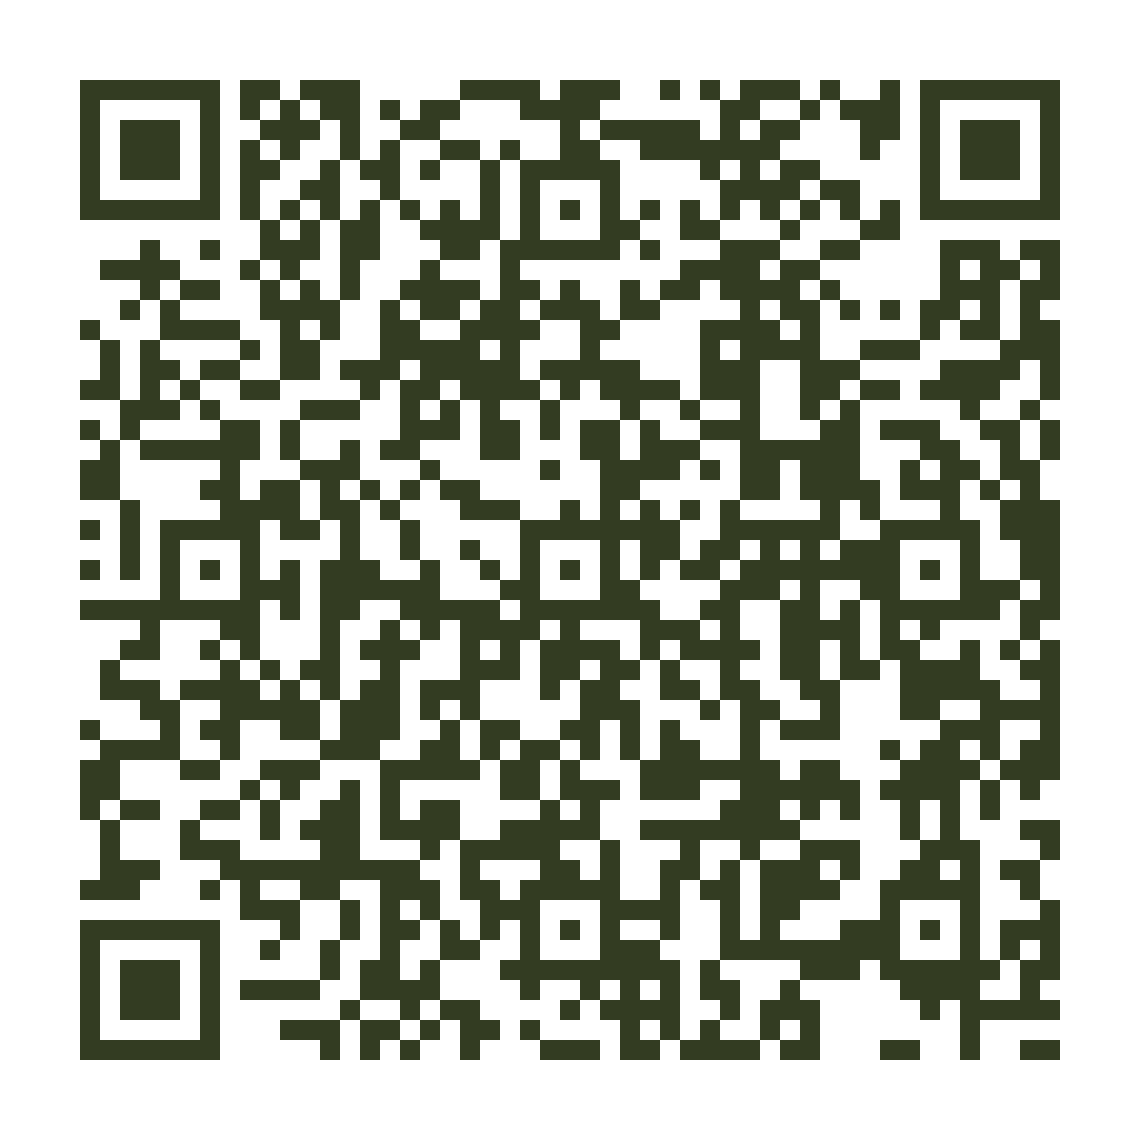
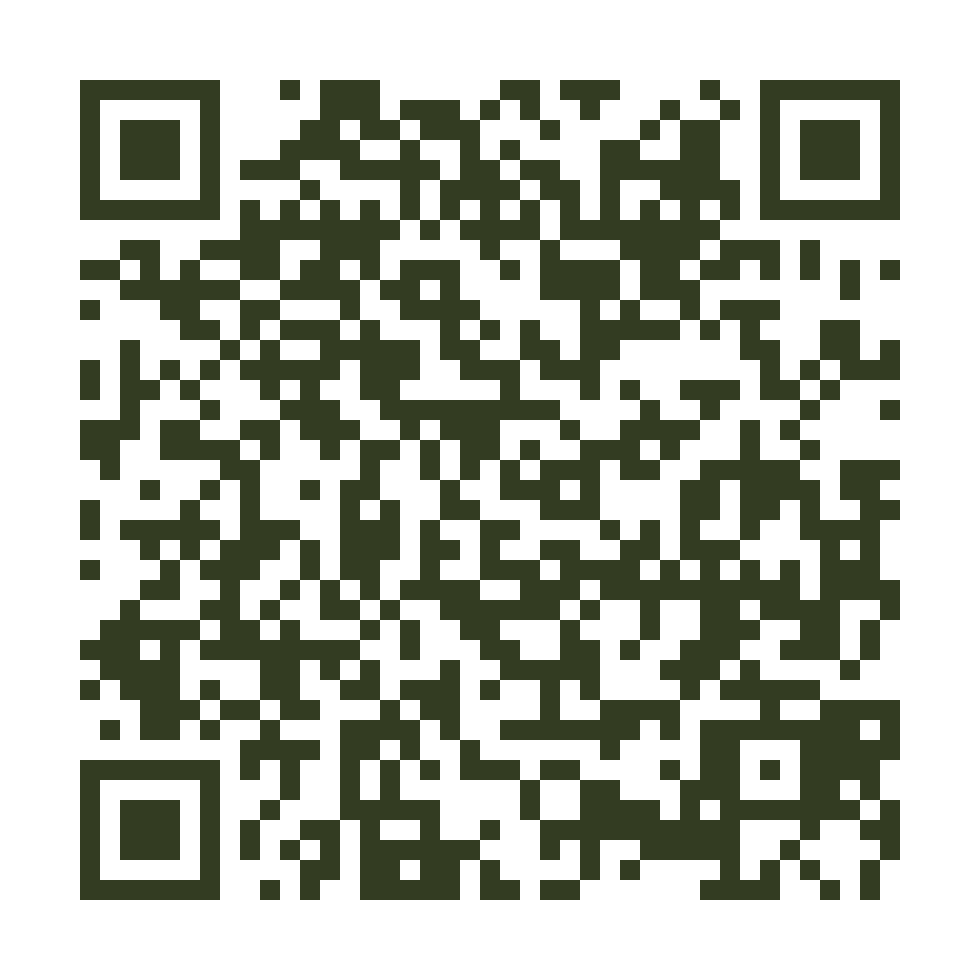
Google yorum linkini guvenilir maps cid linkiyle degistir

diff --git a/index.html b/index.html
@@ -22,7 +22,7 @@
     <p class="tagline">Cocktail Bar</p>
     <div class="hero-links">
       <a href="https://www.instagram.com/thepoint.corlu" target="_blank" rel="noopener" class="pill">Instagram</a>
-      <a href="https://search.google.com/local/writereview?placeid=3169288846046193105" target="_blank" rel="noopener" class="pill pill-gold">Google'da Yorum Yap</a>
+      <a href="https://www.google.com/maps?cid=3169288846046193105" target="_blank" rel="noopener" class="pill pill-gold">Google'da Yorum Yap</a>
     </div>
   </div>
 </header>
@@ -172,7 +172,7 @@
   <div class="footer-links">
     <a href="https://www.instagram.com/thepoint.corlu" target="_blank" rel="noopener">Instagram</a>
     <span>·</span>
-    <a href="https://search.google.com/local/writereview?placeid=3169288846046193105" target="_blank" rel="noopener">Google Yorumlar</a>
+    <a href="https://www.google.com/maps?cid=3169288846046193105" target="_blank" rel="noopener">Google Yorumlar</a>
   </div>
 </footer>
 

diff --git a/qr.html b/qr.html
@@ -97,7 +97,7 @@
     <div class="card">
       <img src="qr/google-yorum.png" alt="Google yorum QR kodu">
       <h2>Google'da Yorum Yap</h2>
-      <p>search.google.com/local/writereview</p>
+      <p>google.com/maps?cid=3169288846046193105</p>
       <a class="dl" href="qr/google-yorum.png" download>PNG indir</a>
     </div>
   </div>

diff --git a/qr/generate_qr.py b/qr/generate_qr.py
@@ -4,7 +4,7 @@ from qrcode.constants import ERROR_CORRECT_H
 targets = {
     "menu": "https://bugraerdn6.github.io/thepoint-corlu/",
     "instagram": "https://www.instagram.com/thepoint.corlu",
-    "google-yorum": "https://search.google.com/local/writereview?placeid=3169288846046193105",
+    "google-yorum": "https://www.google.com/maps?cid=3169288846046193105",
 }
 
 for name, url in targets.items():
